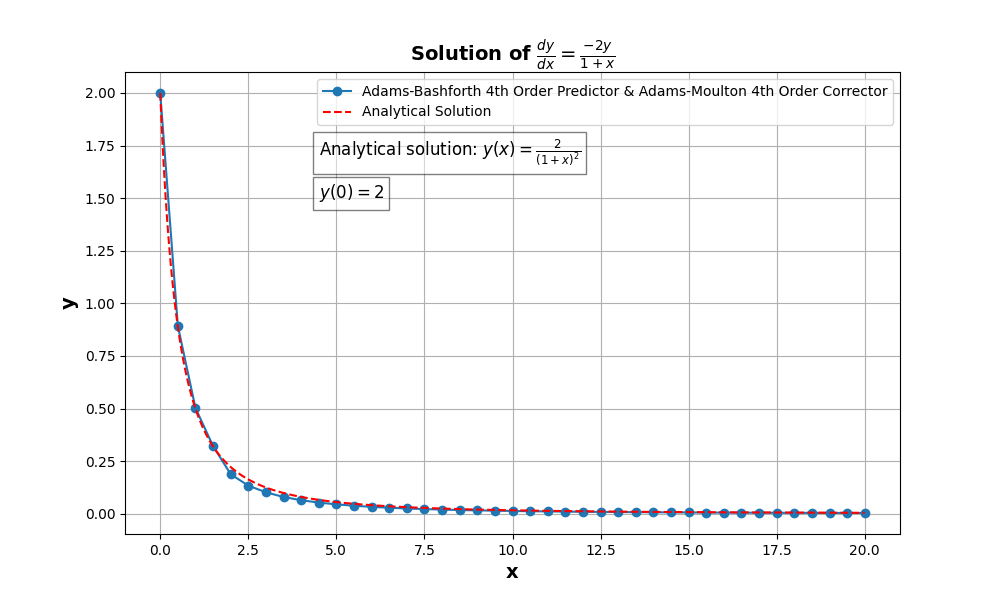
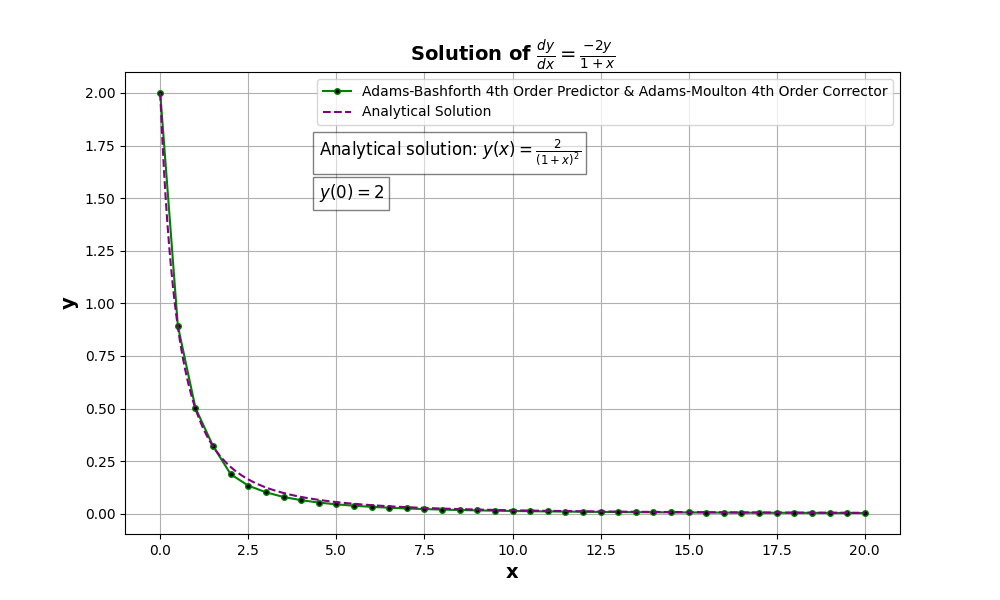
ready to submit

diff --git a/HW_5/Itna_HW_5_Q_3.py b/HW_5/Itna_HW_5_Q_3.py
@@ -21,7 +21,6 @@ y(x) = 2 / (1 + x)^2
 
 We will compare the results of the methods and with the analytical solution.
 Also, we will plot the results.
-
 ---------------------------------------------------------------------------------
 """
 
@@ -50,23 +49,25 @@ def rk4_method_1st_order(ode_func, x0, y0, h, steps):
 
 # Adams-Bashforth Fourth Order Predictor
 def adams_bashforth_4th_order_predictor(ode_func, x_values, y_values, h):
-    return y_values[-1] + h / 24 * (
-            55 * ode_func(x_values[-1], y_values[-1])
-            - 59 * ode_func(x_values[-2], y_values[-2])
-            + 37 * ode_func(x_values[-3], y_values[-3])
-            - 9 * ode_func(x_values[-4], y_values[-4])
-    )
+    return y_values[-1] + h / 24 * (55 * ode_func(x_values[-1], y_values[-1])- 59 * ode_func(x_values[-2], y_values[-2])
+            + 37 * ode_func(x_values[-3], y_values[-3])- 9 * ode_func(x_values[-4], y_values[-4]))
 
 
 # Adams-Moulton Fourth Order Corrector
 def adams_moulton_4th_order_corrector(ode_func, x_values, y_values, y_pred, h):
-    return y_values[-1] + h / 24 * (
-            9 * ode_func(x_values[-1] + h, y_pred)
-            + 19 * ode_func(x_values[-1], y_values[-1])
-            - 5 * ode_func(x_values[-2], y_values[-2])
-            + ode_func(x_values[-3], y_values[-3])
-    )
+    return y_values[-1] + h / 24 * (9 * ode_func(x_values[-1] + h, y_pred) + 19 * ode_func(x_values[-1], y_values[-1])
+            - 5 * ode_func(x_values[-2], y_values[-2]) + ode_func(x_values[-3], y_values[-3]))
 
+def adam_bashforth_moulton_predictor_corrector(ode_func, x0, y0, h, xmax):
+    x_values, y_values = rk4_method_1st_order(ode_func, x0, y0, h, 3)
+
+    for _ in range(3, int((xmax - x0) / h)):
+        y_pred = adams_bashforth_4th_order_predictor(ode_func, x_values, y_values, h)
+        y_corr = adams_moulton_4th_order_corrector(ode_func, x_values, y_values, y_pred, h)
+        x_values = np.append(x_values, x_values[-1] + h)
+        y_values = np.append(y_values, y_corr)
+
+    return x_values, y_values
 
 def main():
     def ode_func(x, y):
@@ -88,31 +89,20 @@ def main():
     x_values, y_values = rk4_method_1st_order(ode_func, x0, y0, h, steps)
 
     # Adams-Bashforth-Moulton Predictor-Corrector
-    for _ in range(steps, int((xmax - x0) / h)):
-        # Predictor step (Adams-Bashforth)
-        y_pred = adams_bashforth_4th_order_predictor(ode_func, x_values, y_values, h)
-
-        # Corrector step (Adams-Moulton)
-        y_corr = adams_moulton_4th_order_corrector(ode_func, x_values, y_values, y_pred, h)
-
-        # Append new values
-        x_values = np.append(x_values, x_values[-1] + h)
-        y_values = np.append(y_values, y_corr)
+    x_values, y_values = adam_bashforth_moulton_predictor_corrector(ode_func, x0, y0, h, xmax)
 
     # Analytical solution
     x_analytical = np.linspace(x0, xmax, 400)
     y_analytical = analytical_solution(x_analytical)
 
     plt.figure(figsize=(10, 6))
-    plt.plot(x_values, y_values, label='Adams-Bashforth 4th Order Predictor & Adams-Moulton 4th Order Corrector',
-             marker='o')
-    plt.plot(x_analytical, y_analytical, 'r--', label='Analytical Solution')
+    plt.plot(x_values, y_values, label='Adams-Bashforth 4th Order Predictor & Adams-Moulton 4th Order Corrector',marker='o', color='g', linestyle='-', markersize=4, markerfacecolor='black')
+    plt.plot(x_analytical, y_analytical, '--', label='Analytical Solution', color='purple')
     plt.xlabel('x', fontweight='bold', fontsize=14)
     plt.ylabel('y', fontweight='bold', fontsize=14)
     plt.title(r'Solution of $\frac{dy}{dx} = \frac{-2y}{1+x}$', fontsize=14, fontweight='bold')
     plt.text(4.5, 1.5, r'$y(0) = 2$', fontsize=12, bbox=dict(facecolor='white', alpha=0.5))
-    plt.text(4.5, 1.7, "Analytical solution: " + r'$y(x) = \frac{2}{(1+x)^2}$', fontsize=12,
-             bbox=dict(facecolor='white', alpha=0.5))
+    plt.text(4.5, 1.7, "Analytical solution: " + r'$y(x) = \frac{2}{(1+x)^2}$', fontsize=12,bbox=dict(facecolor='white', alpha=0.5))
     plt.legend()
     plt.grid()
     plt.savefig('Adams_Bashforth_Moulton_Predictor_Corrector_and_Analytical_Solution_Plot_Q_3.png')
@@ -121,7 +111,6 @@ def main():
     print("\nThe script has finished running.")
     print("Thank you for using the script.")
     print("\n")
-
 
 if __name__ == '__main__':
     main()
